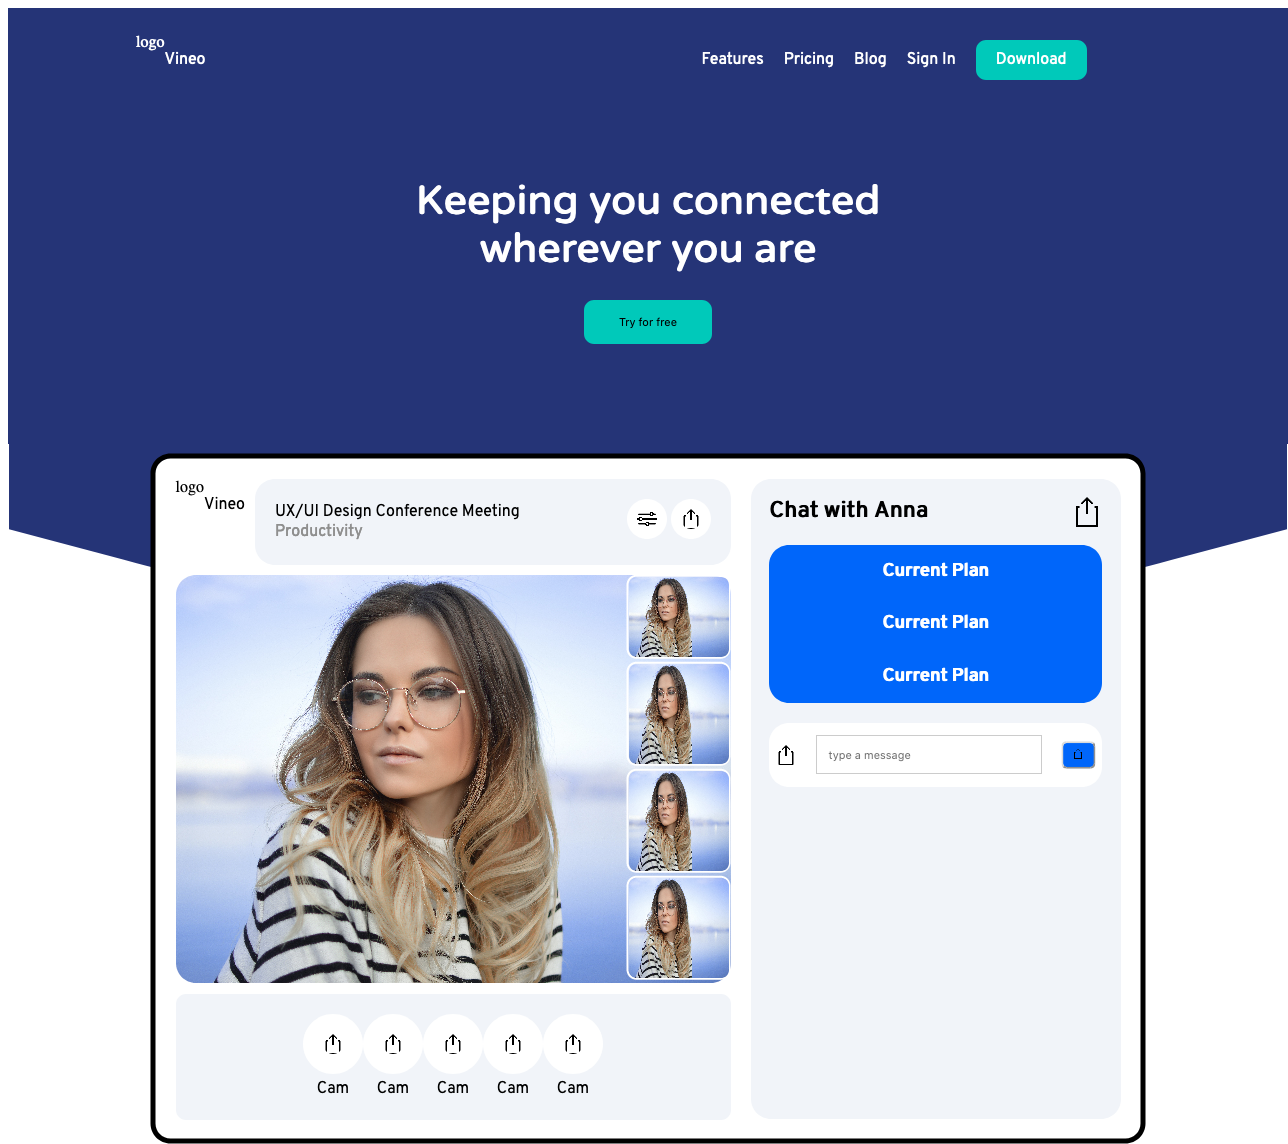
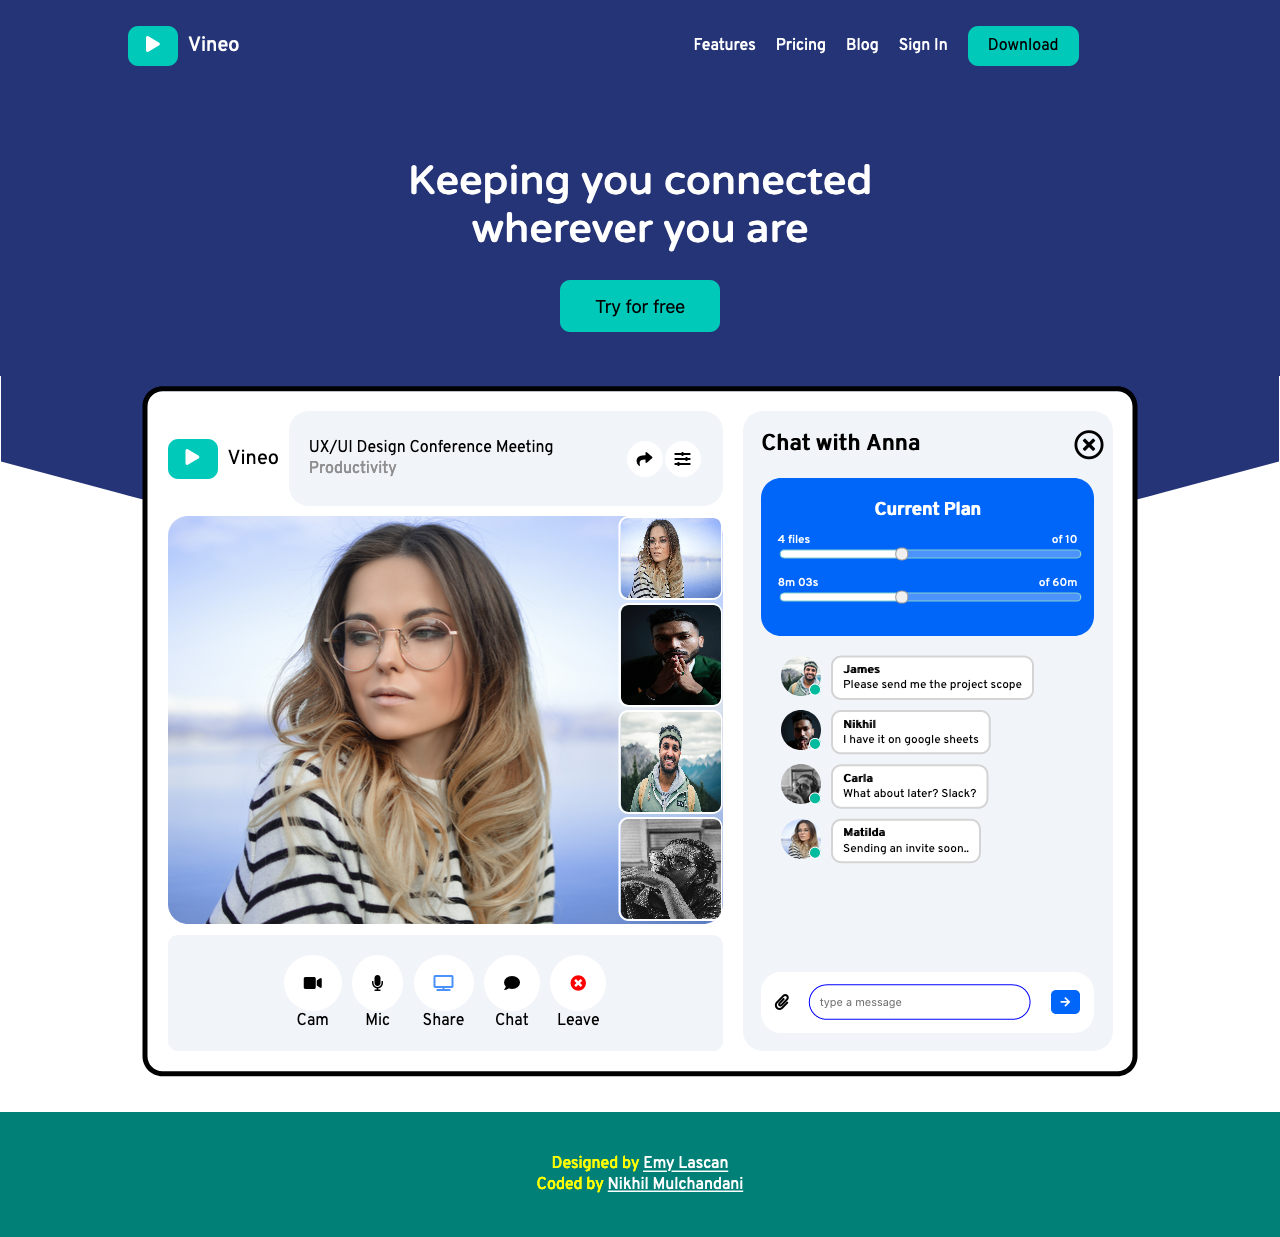
Animated chat bubbles

diff --git a/vineo.css b/vineo.css
@@ -131,9 +131,9 @@ font-size: 18px;
 
 	display: flex;
 	
-	height: 35rem;
+	height: auto;	
 	
-	background-image: url('wave.svg');
+	background-image: url('images/wave.svg');
 	transition: all 0.5s ease;
 	background-repeat: no-repeat;
 	justify-content: center;
@@ -199,11 +199,16 @@ font-size: 18px;
 .meeting-category{
 	color:#8f8f8f;
 }
+.meeting-actions{
 
-.meeting-actions img{
+	display: flex;
+	flex-direction: row;
+}
+.meeting-actions i{
 	padding: 10px;
 	background-color: white;
 	border-radius: 100%;
+	margin-right: 2px;
 
 }
 .persons-container{
@@ -218,7 +223,7 @@ font-size: 18px;
 	justify-content: flex-end;
 	width: 100%;
 	
-	background-image: url("bg.jpg");
+	background-image: url("images/bg.jpg");
 	background-size: cover;
 	border-radius: 20px;
 	
@@ -388,21 +393,55 @@ input[type='range'] {
 
 }  
 
+@keyframes fadeInUp {
+    from {
+        transform: translate3d(100px,0,0);
+        opacity: 0;
+
+    }
+
+    to {
+        transform: translate3d(0,0,0);
+        opacity: 1;
+
+    }
+}
+.chat-bubbles--content > div:nth-child(1){
+	animation: fadeInUp 1000ms ease-out backwards;
+	animation-delay: 1.5s;
+	
+}
+
+.chat-bubbles--content > div:nth-child(2){
+	animation: fadeInUp 1000ms ease-out backwards;
+	animation-delay: 2.5s;
+}
+
+.chat-bubbles--content > div:nth-child(3){
+	animation: fadeInUp 1000ms ease-out backwards;
+	animation-delay: 3.5s;
+}
+
+.chat-bubbles--content > div:nth-child(4){
+	animation: fadeInUp 1500ms ease-out backwards;
+	animation-delay: 4.5s;
+}
+
 .chat-bubbles--content > div:nth-child(2) >div.chat-bubble--image{
-	background-image: url('person1.jpg')
+	background-image: url('images/person1.jpg')
 }
 .chat-bubbles--content > div:nth-child(1) >div.chat-bubble--image{
-	background-image: url('person2.jpg')
+	background-image: url('images/person2.jpg')
 }
 .chat-bubbles--content > div:nth-child(3) >div.chat-bubble--image{
-	background-image: url('person3.jpg')
+	background-image: url('images/person3.jpg')
 }
 
 .chat-bubble--image{
 
 	width: 40px;
 	height: 40px;
-	background-image: url("bg.jpg");
+	background-image: url("images/bg.jpg");
 	border-radius: 100%;
 	background-size: cover;
 	position: relative;
@@ -451,6 +490,7 @@ input[type='range'] {
 	width: 90%;
 	border-radius: 20px;
 	height: 4rem;
+	margin-bottom: 5%;
 }
 
 input[type=text]{
@@ -458,8 +498,11 @@ input[type=text]{
 	margin-right: 20px;
 	margin-left: 20px;
 	width: 60%;
+	border-radius: 20px;
+	border:1px blue solid;
 }
 .type-message>button{
+	border: none;
 	background-color: #0066FA;
 	color: white;
 	border-radius: 5px;
@@ -468,4 +511,28 @@ input[type=text]{
 
 
 
+.footer{
+
+	display: flex;
+	flex-direction: column;
+	width: 100%;
+	height: 20%;
+
+	font-family: 'Overpass';
+
+	margin-top: 2%;
+	justify-content: center;
+	align-items: center;
+
+	background-color: #008076;
+	color: yellow;
+
+
+}
+
+.footer a{
+	text-decoration-style: none;
+	
+	color: white;
+}
 

diff --git a/index.html b/index.html
@@ -59,8 +59,12 @@
                                 <p class="meeting-category">Productivity</p>
                             </div>
                             <div class="meeting-actions">
-                                <img src="levels.png" width="20px" height="20px" />
-                                <img src="share.png" width="20px" height="20px" />
+                                <div class="cam">
+                                    <i class="fas fa-share"></i>
+                                </div>
+                                <div class="cam">
+                                    <i class="fas fa-sliders-h"></i>
+                                </div>
                             </div>
                         </div>
                     </div>
@@ -68,10 +72,10 @@
                         <div class="overlay-bg">
                             <div class="persons-avatars">
                                 <div class="person1"></div>
-                                <img src="bg.jpg" width="100px" height="80px" />
-                                <img src="bg.jpg" width="100px" height="100px" />
-                                <img src="bg.jpg" width="100px" height="100px" />
-                                <img src="bg.jpg" width="100px" height="100px" />
+                                <img src="images/bg.jpg" width="100px" height="80px" />
+                                <img src="images/person1.jpg" width="100px" height="100px" />
+                                <img src="images/person2.jpg" width="100px" height="100px" />
+                                <img src="images/person3.jpg" width="100px" height="100px" />
                             </div>
                         </div>
                     </div>
@@ -160,6 +164,10 @@
                 </div>
             </div>
         </div>
+        <footer class="footer">
+            <div><span>Designed by </span><a href="https://dribbble.com/mazepixel">Emy Lascan</a></div>
+            <div> <span>Coded by</span> <a href="https://github.com/nikhilm19">Nikhil Mulchandani</a></div>
+        </footer>
     </div>
     <script type="text/javascript">
     document.getElementById("file-slider").oninput = function() {
